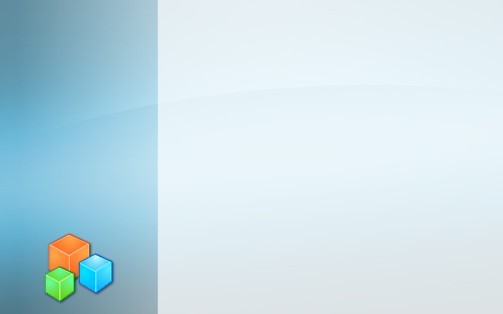
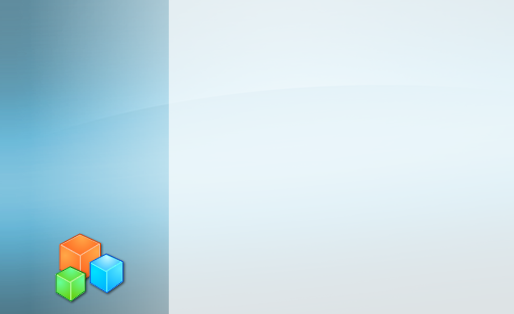
update background make the style for chrome only

Changed region(s): [[0.0895, 0.7452, 0.2684, 0.9745], [0.2982, 0.0, 0.328, 1.0]]

diff --git a/src/app/components/common/custom-editor/style.css b/src/app/components/common/custom-editor/style.css
@@ -13,50 +13,45 @@
 }
 
 /****Below code is override existing style****/
-.monaco-list > .monaco-scrollable-element {
+.chrome .monaco-list > .monaco-scrollable-element {
     background: rgb(224,237,243) url("./images/setupBanner.png") left bottom no-repeat;
-    
-    /* this will show the background image created by Nancy
-    background: rgb(224,237,243) url("./images/bg.png") -240px 0px repeat-y;
-    */
-
 }
 
-.monaco-editor .suggest-widget > .tree,
-.monaco-editor .suggest-widget > .tree .monaco-list,
-.monaco-editor .suggest-widget > .tree .monaco-list .monaco-list-rows,
-.monaco-list > .monaco-scrollable-element {
+.chrome .monaco-editor .suggest-widget > .tree,
+.chrome .monaco-editor .suggest-widget > .tree .monaco-list,
+.chrome .monaco-editor .suggest-widget > .tree .monaco-list .monaco-list-rows,
+.chrome .monaco-list > .monaco-scrollable-element {
     border-radius: 8px;
 }
 
-.monaco-editor .suggest-widget > .tree,
-.monaco-editor .suggest-widget > .tree .monaco-list .monaco-list-rows {
+.chrome .monaco-editor .suggest-widget > .tree,
+.chrome .monaco-editor .suggest-widget > .tree .monaco-list .monaco-list-rows {
     height: 170px !important;
 }
 
-.monaco-list.list_id_1 .monaco-list-row:hover, 
-.monaco-list.list_id_1 .monaco-list-row:focus,
-.monaco-list.list_id_1 .monaco-list-row.focused {
+.chrome .monaco-list.list_id_1 .monaco-list-row:hover, 
+.chrome .monaco-list.list_id_1 .monaco-list-row:focus,
+.chrome .monaco-list.list_id_1 .monaco-list-row.focused {
     background-color: unset !important;
 }
 
-.monaco-editor .suggest-widget > .tree .monaco-list .monaco-list-rows {
+.chrome .monaco-editor .suggest-widget > .tree .monaco-list .monaco-list-rows {
     top: unset !important;
 }
 
-.monaco-editor .suggest-widget .monaco-list .monaco-list-row {
+.chrome .monaco-editor .suggest-widget .monaco-list .monaco-list-row {
     position: initial;
 }
 
-.monaco-list.list_id_1 .monaco-list-row .monaco-highlighted-label{
+.chrome .monaco-list.list_id_1 .monaco-list-row .monaco-highlighted-label {
     font-size: 16px;
 }
 
-.monaco-list.list_id_1 .monaco-list-row.focused .monaco-highlighted-label{
+.chrome .monaco-list.list_id_1 .monaco-list-row.focused .monaco-highlighted-label {
     font-weight: bolder;
 }
 
-.monaco-editor .suggest-widget .monaco-list .monaco-list-row.focused > .contents > .main > .type-label {
+.chrome .monaco-editor .suggest-widget .monaco-list .monaco-list-row.focused > .contents > .main > .type-label {
     width: 248px;
     height: 150px;
     margin-left: 150px;
@@ -74,11 +69,11 @@
     top: 5px;
 }
 
-.monaco-editor .suggest-widget .monaco-list .monaco-list-row.focused > .contents > .main > .readMore {
+.chrome .monaco-editor .suggest-widget .monaco-list .monaco-list-row.focused > .contents > .main > .readMore {
     display: none;
 }
 
-.monaco-editor .suggest-widget.docs-below .details {
+.chrome .monaco-editor .suggest-widget.docs-below .details {
     border-top-width: 0px;
     position: absolute;
     top: 0;
@@ -88,12 +83,12 @@
     display: block;
 }
 
-.monaco-scrollable-element > .scrollbar,
-.monaco-scrollable-element > .vertical,
-.monaco-scrollable-element > .invisible {
+.chrome .monaco-scrollable-element > .scrollbar,
+.chrome .monaco-scrollable-element > .vertical,
+.chrome .monaco-scrollable-element > .invisible {
     height: 144px !important;
 }
 
-.vs .monaco-scrollable-element > .scrollbar > .slider {
+.chrome .vs .monaco-scrollable-element > .scrollbar > .slider {
     display: none;
 }

diff --git a/src/app/components/common/master-layout/index.tsx b/src/app/components/common/master-layout/index.tsx
@@ -17,6 +17,8 @@ interface PropsFromReact {
     sideBar?: JSX.Element;
 }
 
+const isChrome = navigator.userAgent.indexOf("Chrome")!==-1;
+
 type PresentationalComponentProps = PropsFromState & PropsFromDispatch & PropsFromReact & RouteComponentProps<PropsFromReact>;
 
 class PresentationalComponent extends React.Component<PresentationalComponentProps> {
@@ -25,8 +27,10 @@ class PresentationalComponent extends React.Component<PresentationalComponentPro
     }
 
     public render(): JSX.Element {
+        const classNameWithChrome = isChrome? "content chrome" : "content";
+
         return (
-            <div className="content">
+            <div className={classNameWithChrome}>
                 <div className="toolbar body-box">
                     <div className="toolbar-buttons">
                         {this.props.toolbar.map((item, i) => <div key={i}>{item}</div>)}
